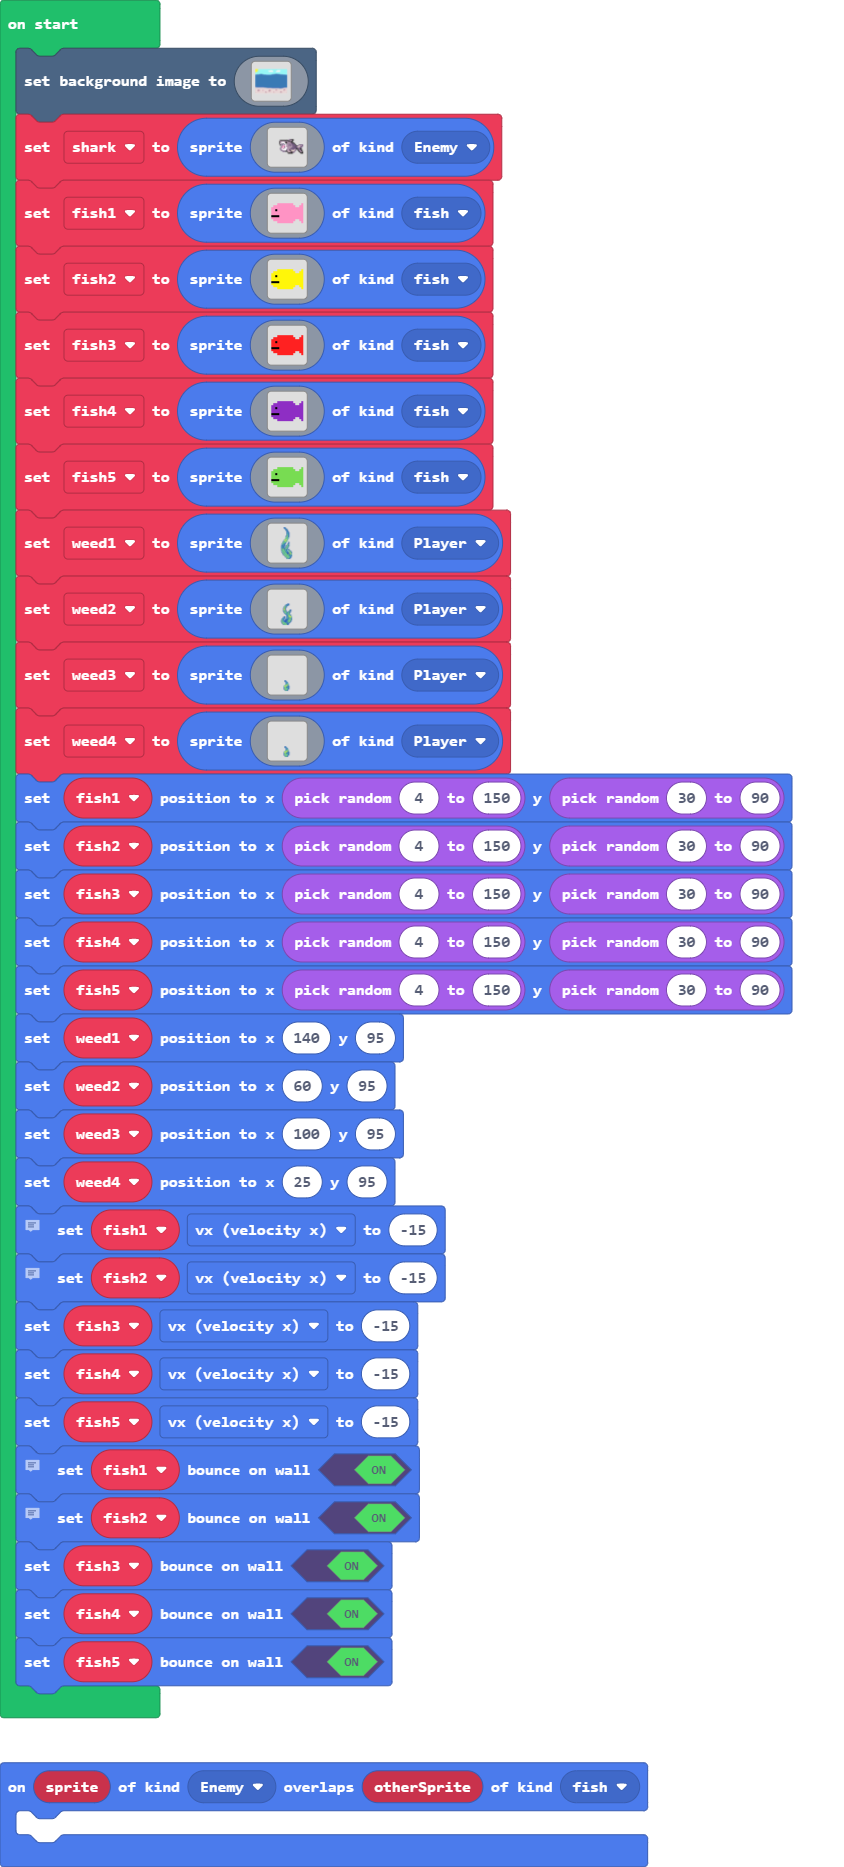
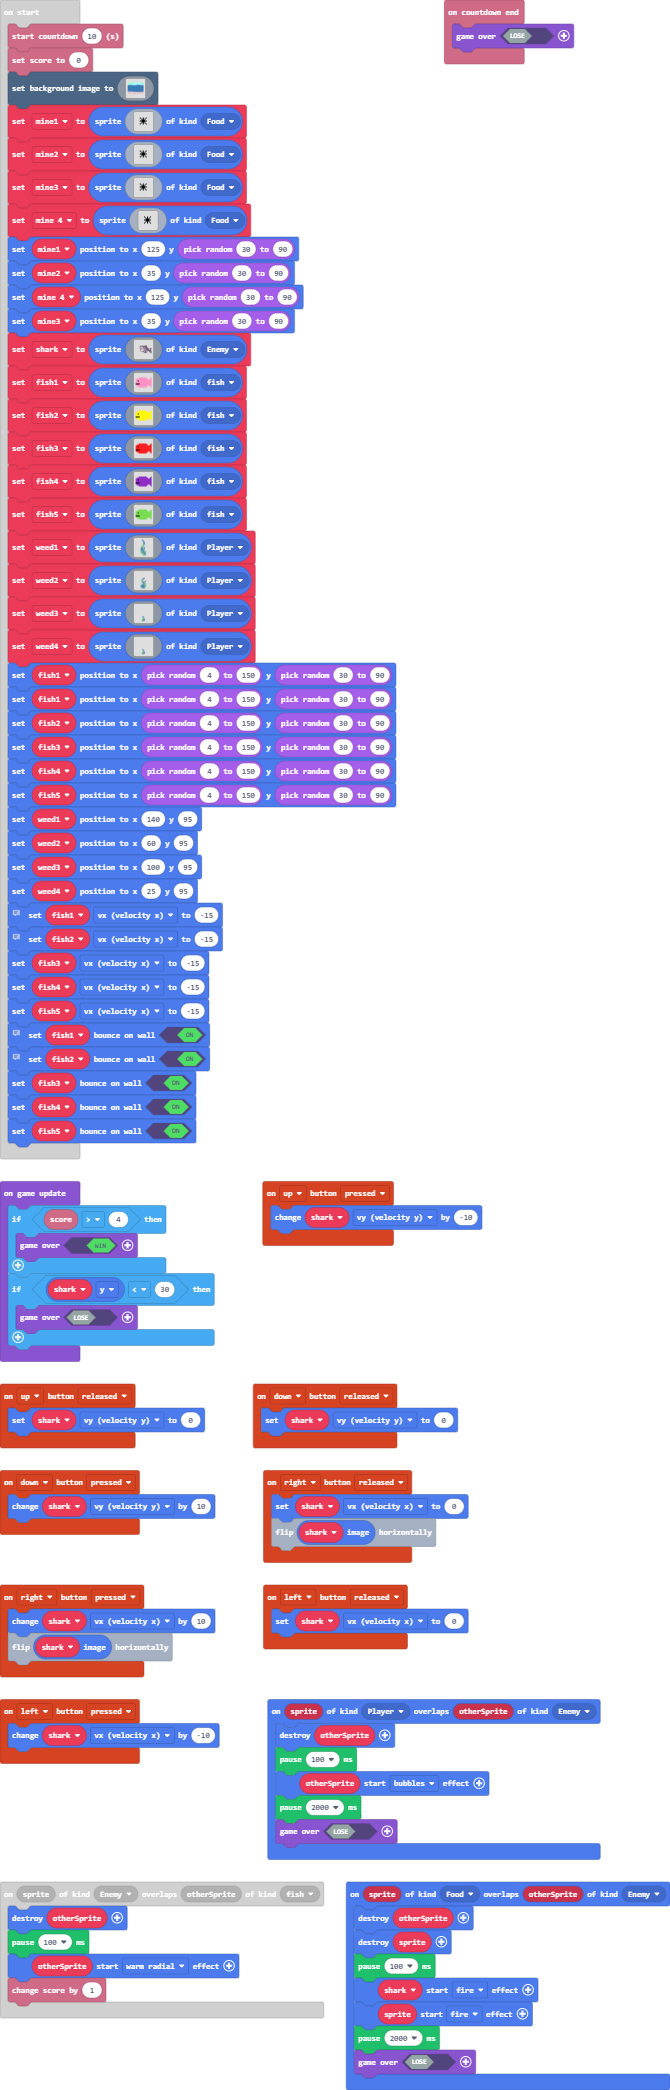
shark added along with effects

diff --git a/main.ts b/main.ts
@@ -1,9 +1,60 @@
 namespace SpriteKind {
     export const fish = SpriteKind.create()
 }
-sprites.onOverlap(SpriteKind.Enemy, SpriteKind.fish, function (sprite, otherSprite) {
-	
+controller.up.onEvent(ControllerButtonEvent.Pressed, function () {
+    shark.vy += -10
 })
+sprites.onOverlap(SpriteKind.Enemy, SpriteKind.fish, function (sprite, otherSprite) {
+    otherSprite.destroy()
+    pause(100)
+    otherSprite.startEffect(effects.warmRadial)
+    info.changeScoreBy(1)
+})
+controller.down.onEvent(ControllerButtonEvent.Released, function () {
+    shark.vy = 0
+})
+controller.left.onEvent(ControllerButtonEvent.Pressed, function () {
+    shark.vx += -10
+})
+controller.right.onEvent(ControllerButtonEvent.Released, function () {
+    shark.vx = 0
+    shark.image.flipX()
+})
+controller.left.onEvent(ControllerButtonEvent.Released, function () {
+    shark.vx = 0
+})
+sprites.onOverlap(SpriteKind.Food, SpriteKind.Enemy, function (sprite, otherSprite) {
+    otherSprite.destroy()
+    sprite.destroy()
+    pause(100)
+    shark.startEffect(effects.fire)
+    sprite.startEffect(effects.fire)
+    pause(2000)
+    game.over(false)
+})
+info.onCountdownEnd(function () {
+    game.over(false)
+})
+controller.right.onEvent(ControllerButtonEvent.Pressed, function () {
+    shark.vx += 10
+    shark.image.flipX()
+})
+controller.up.onEvent(ControllerButtonEvent.Released, function () {
+    shark.vy = 0
+})
+controller.down.onEvent(ControllerButtonEvent.Pressed, function () {
+    shark.vy += 10
+})
+sprites.onOverlap(SpriteKind.Player, SpriteKind.Enemy, function (sprite, otherSprite) {
+    otherSprite.destroy()
+    pause(100)
+    otherSprite.startEffect(effects.bubbles)
+    pause(2000)
+    game.over(false)
+})
+let shark: Sprite = null
+info.startCountdown(10)
+info.setScore(0)
 scene.setBackgroundImage(img`
     5555555555555559999999999999999999999999999999999999999999999999999999999999999999999999999999999999999999999999999999999999999999999999999999999999999999999999
     5555555555555559999999999999999999999999999999999999999999999999999999999999999999999999999999999999999999999999999999999999999999999999999999999999999999999999
@@ -126,7 +177,83 @@ scene.setBackgroundImage(img`
     dddddddddddddddddddddddddddddddddddddddddddddddddddddddddddddddddddddddddddddddddddddddddddddddddddddddddddddddddddddddddddddddddddddddddddddddddddddddddddddddd
     dddddddddddddddddddddddddddddddddddddddddddddddddddddddddddddddddddddddddddddddddddddddddddddddddddddddddddddddddddddddddddddddddddddddddddddddddddddddddddddddd
     `)
-let shark = sprites.create(img`
+let mine1 = sprites.create(img`
+    . . . . . . . . . . . . . . . . 
+    . . . . . . . . . . . . . . . . 
+    . . . . . . . . . . . . . . . . 
+    . . . . . . . . . . . . . . . . 
+    . . . . f . . f . . f . . . . . 
+    . . . . . f . f . f . . . . . . 
+    . . . . . . f f f . . . . . . . 
+    . . . . f f f f f f f . . . . . 
+    . . . . . . f f f . . . . . . . 
+    . . . . . f . f . f . . . . . . 
+    . . . . f . . f . . f . . . . . 
+    . . . . . . . . . . . . . . . . 
+    . . . . . . . . . . . . . . . . 
+    . . . . . . . . . . . . . . . . 
+    . . . . . . . . . . . . . . . . 
+    . . . . . . . . . . . . . . . . 
+    `, SpriteKind.Food)
+let mine2 = sprites.create(img`
+    . . . . . . . . . . . . . . . . 
+    . . . . . . . . . . . . . . . . 
+    . . . . . . . . . . . . . . . . 
+    . . . . . . . . . . . . . . . . 
+    . . . . f . . f . . f . . . . . 
+    . . . . . f . f . f . . . . . . 
+    . . . . . . f f f . . . . . . . 
+    . . . . f f f f f f f . . . . . 
+    . . . . . . f f f . . . . . . . 
+    . . . . . f . f . f . . . . . . 
+    . . . . f . . f . . f . . . . . 
+    . . . . . . . . . . . . . . . . 
+    . . . . . . . . . . . . . . . . 
+    . . . . . . . . . . . . . . . . 
+    . . . . . . . . . . . . . . . . 
+    . . . . . . . . . . . . . . . . 
+    `, SpriteKind.Food)
+let mine3 = sprites.create(img`
+    . . . . . . . . . . . . . . . . 
+    . . . . . . . . . . . . . . . . 
+    . . . . . . . . . . . . . . . . 
+    . . . . . . . . . . . . . . . . 
+    . . . . f . . f . . f . . . . . 
+    . . . . . f . f . f . . . . . . 
+    . . . . . . f f f . . . . . . . 
+    . . . . f f f f f f f . . . . . 
+    . . . . . . f f f . . . . . . . 
+    . . . . . f . f . f . . . . . . 
+    . . . . f . . f . . f . . . . . 
+    . . . . . . . . . . . . . . . . 
+    . . . . . . . . . . . . . . . . 
+    . . . . . . . . . . . . . . . . 
+    . . . . . . . . . . . . . . . . 
+    . . . . . . . . . . . . . . . . 
+    `, SpriteKind.Food)
+let mine_4 = sprites.create(img`
+    . . . . . . . . . . . . . . . . 
+    . . . . . . . . . . . . . . . . 
+    . . . . . . . . . . . . . . . . 
+    . . . . . . . . . . . . . . . . 
+    . . . . f . . f . . f . . . . . 
+    . . . . . f . f . f . . . . . . 
+    . . . . . . f f f . . . . . . . 
+    . . . . f f f f f f f . . . . . 
+    . . . . . . f f f . . . . . . . 
+    . . . . . f . f . f . . . . . . 
+    . . . . f . . f . . f . . . . . 
+    . . . . . . . . . . . . . . . . 
+    . . . . . . . . . . . . . . . . 
+    . . . . . . . . . . . . . . . . 
+    . . . . . . . . . . . . . . . . 
+    . . . . . . . . . . . . . . . . 
+    `, SpriteKind.Food)
+mine1.setPosition(125, randint(30, 90))
+mine2.setPosition(35, randint(30, 90))
+mine_4.setPosition(125, randint(30, 90))
+mine3.setPosition(35, randint(30, 90))
+shark = sprites.create(img`
     ....................ccfff...........
     ..........fffffffffcbbbbf...........
     .........fbbbbbbbbbfffbf............
@@ -435,6 +562,7 @@ let weed4 = sprites.create(img`
     ......8768......
     `, SpriteKind.Player)
 fish1.setPosition(randint(4, 150), randint(30, 90))
+fish1.setPosition(randint(4, 150), randint(30, 90))
 fish2.setPosition(randint(4, 150), randint(30, 90))
 fish3.setPosition(randint(4, 150), randint(30, 90))
 fish4.setPosition(randint(4, 150), randint(30, 90))
@@ -457,3 +585,11 @@ fish2.setBounceOnWall(true)
 fish3.setBounceOnWall(true)
 fish4.setBounceOnWall(true)
 fish5.setBounceOnWall(true)
+game.onUpdate(function () {
+    if (info.score() > 4) {
+        game.over(true)
+    }
+    if (shark.y < 30) {
+        game.over(false)
+    }
+})
